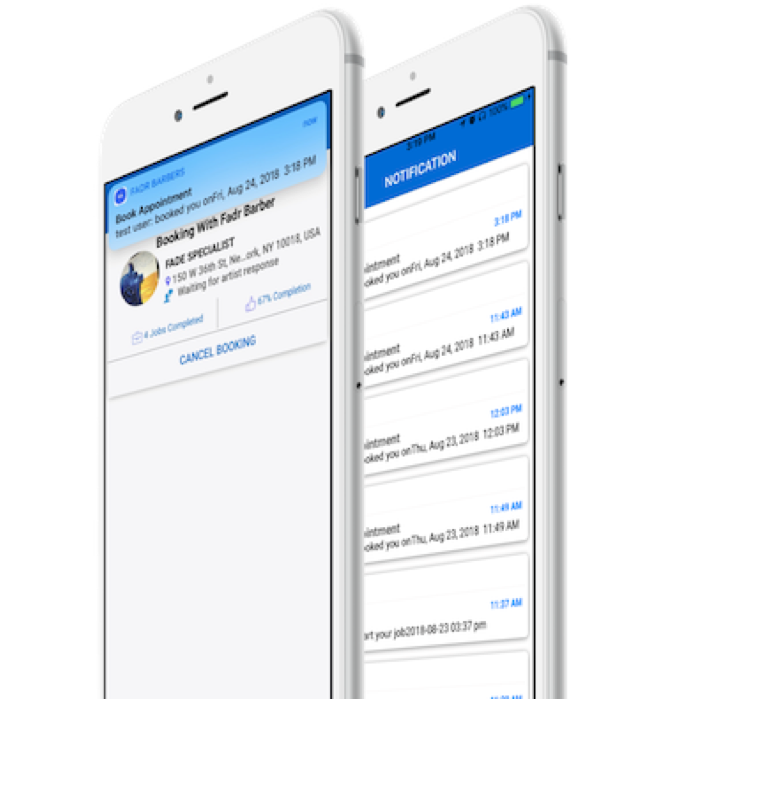
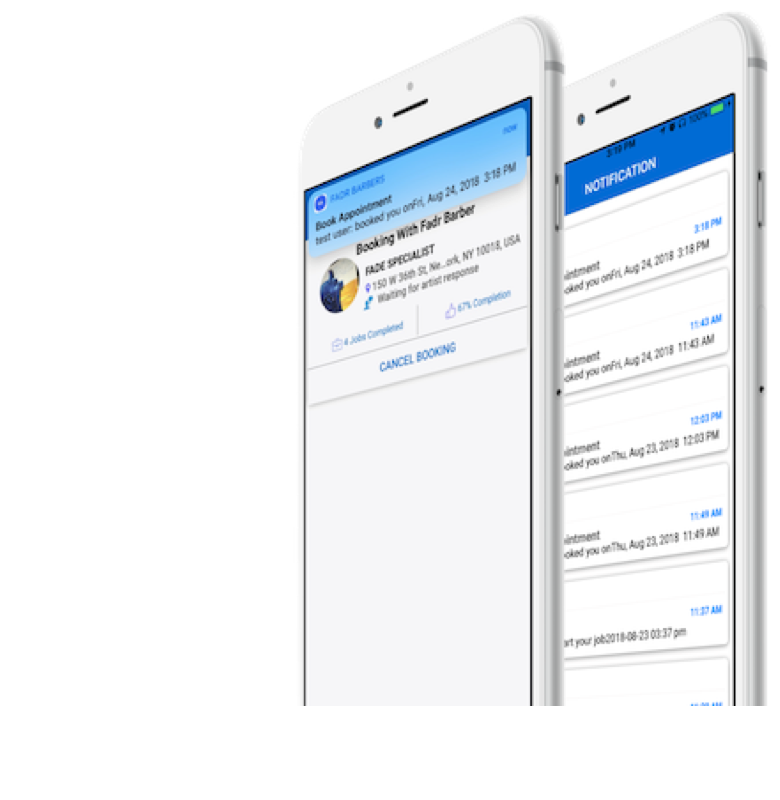
update

Changed region(s): [[0.1231, 0.0, 0.9846, 0.9062], [0.8923, 0.875, 0.9231, 0.9062]]

diff --git a/index.html b/index.html
@@ -81,7 +81,7 @@
                 </div>
                 <div class="col-md-6 text-right">
                     <div class="home4-hero-mobile wow fadeInDown">
-                        <img src="assets/img/home1-hero-mobile-img.png" alt="">
+                        <img src="assets/img/2.png" alt="">
                     </div>
                 </div>
             </div>

diff --git a/style.css b/style.css
@@ -3569,8 +3569,7 @@ body.home4 .header-area.cta3 a.header-btn:hover {
 .home4-hero-mobile {
 	position: absolute;
 	z-index: 1;
-	right: 0;
-	top: -50%;
+	top: -90%;
 }
 
 @media (max-width: 767px) {
